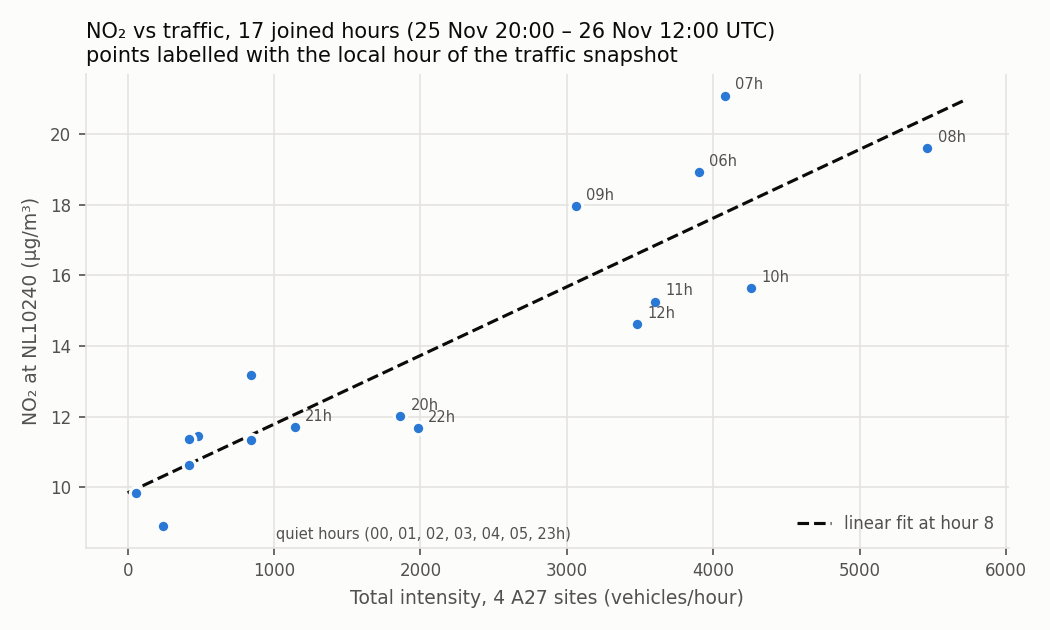
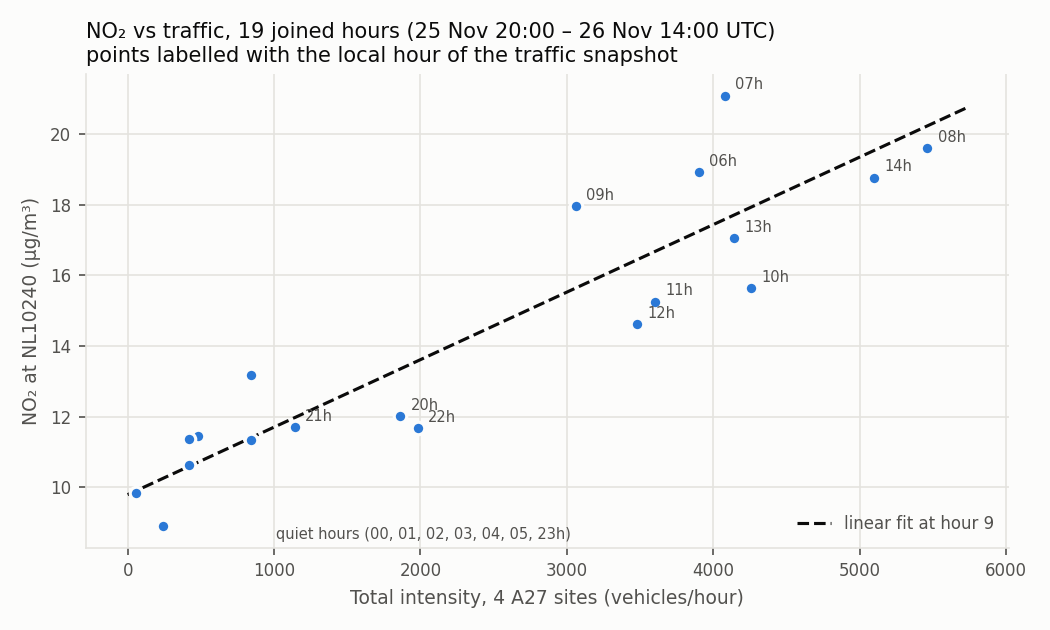
day 4 update final

diff --git a/services/dashboard/dashboard.py b/services/dashboard/dashboard.py
@@ -25,8 +25,9 @@ Where each field of GET /site/{site_id} comes from (required comment)
   timestamp                     the measurement time inside that CSV (when NDW measured
                                 the traffic), i.e. the moment the prediction is about.
   total_intensity_veh_per_hr    the same S3 step for all four sites, summed. Only set
-                                when all four files come from the same snapshot and
-                                have no invalid (-1) flow lane.
+                                when all four files come from the same hour (the
+                                newest complete hour is used) and have no invalid
+                                (-1) flow lane.
   prediction_for_hour           common.features.no2_hour_for(timestamp): the Luchtmeetnet
                                 hour the prediction will be compared with once published.
   no2_ug_m3_predicted,          predict.predict(total_intensity_veh_per_hr, hour_of_day):
@@ -119,27 +120,38 @@ def _s3_client():
 
 
 def _fetch_latest_traffic(now: datetime | None = None) -> dict[str, dict | None]:
-    """{site: {"intensity", "measurement_time", "key"} or None} from the newest CSV per site.
+    """{site: {"intensity", "measurement_time", "key"} or None}.
 
-    Keys are ndw/YYYY-MM-DD/HH-<site>.csv, so the newest is the lexicographic
-    maximum; today's and yesterday's folders are enough (the VM writes hourly).
+    Files are ndw/YYYY-MM-DD/HH-<site>.csv. We use the newest HOUR for which all
+    four sites have a file, not simply the newest file per site: traffic-ingest
+    uploads the four files one after another during a ~1-minute cycle, and in
+    that minute the newest files would mix two hours (and the total would be
+    meaningless). Only if no hour is complete does a site fall back to its own
+    newest file. Today's and yesterday's folders are enough (the VM writes hourly).
     """
     s3 = _s3_client()
     now = now or datetime.now(timezone.utc)
-    keys: dict[str, list[str]] = {}
+    by_hour: dict[str, dict[str, str]] = {}               # "ndw/2026-11-26/12" -> {site: key}
     for day in (now, now - timedelta(days=1)):
         resp = s3.list_objects_v2(Bucket=BUCKET, Prefix=f"ndw/{day:%Y-%m-%d}/")
         for obj in resp.get("Contents", []):
-            name = obj["Key"].rsplit("/", 1)[-1].removesuffix(".csv")   # "12-hrl"
-            site = name.split("-", 1)[-1]
+            folder, name = obj["Key"].rsplit("/", 1)
+            hour, _, site = name.removesuffix(".csv").partition("-")   # "12", "hrl"
             if site in SITES:
-                keys.setdefault(site, []).append(obj["Key"])
+                by_hour.setdefault(f"{folder}/{hour}", {})[site] = obj["Key"]
+    complete = [h for h, sites in by_hour.items() if len(sites) == len(SITES)]
+    if complete:
+        chosen = by_hour[max(complete)]
+    else:
+        chosen = {}
+        for hour in sorted(by_hour):                       # oldest -> newest: newest wins per site
+            chosen.update(by_hour[hour])
     result: dict[str, dict | None] = {}
     for site in SITES:
-        if not keys.get(site):
+        key = chosen.get(site)
+        if key is None:
             result[site] = None
             continue
-        key = max(keys[site])
         rows = parse_ndw_csv(s3.get_object(Bucket=BUCKET, Key=key)["Body"].read().decode("utf-8"))
         result[site] = {"intensity": site_intensity(rows), "measurement_time": measurement_time(rows), "key": key}
     return result
@@ -160,13 +172,15 @@ def total_intensity(traffic: dict[str, dict | None]) -> tuple[float | None, date
     if any(traffic.get(s) is None for s in SITES):
         return None, None, "total intensity unavailable: no recent file for " + \
             ", ".join(s for s in SITES if traffic.get(s) is None)
-    times = {traffic[s]["measurement_time"] for s in SITES}
-    if len(times) != 1:
-        return None, None, "total intensity unavailable: the four sites' latest files are from different snapshots"
+    # Same rule as the training join: the model's unit is the NO2 HOUR, so the four
+    # sites must fall in the same hour (the minute may differ if a cycle re-ran).
+    times = [traffic[s]["measurement_time"] for s in SITES]
+    if len({no2_hour_for(t) for t in times}) != 1:
+        return None, None, "total intensity unavailable: the four sites' latest files are from different hours"
     invalid = [s for s in SITES if traffic[s]["intensity"] is None]
     if invalid:
         return None, None, "total intensity unavailable: invalid (-1) flow lane at " + ", ".join(invalid)
-    return sum(traffic[s]["intensity"] for s in SITES), times.pop(), None
+    return sum(traffic[s]["intensity"] for s in SITES), max(times), None
 
 
 # --------------------------------------------------------------------------- #

diff --git a/tests/test_dashboard.py b/tests/test_dashboard.py
@@ -64,6 +64,48 @@ def test_invalid_lane_means_no_total_and_no_prediction(client, monkeypatch):
     assert body["intensity_veh_per_hr"] == 2460.0
 
 
+def test_same_hour_different_minutes_still_gives_a_total(client, monkeypatch):
+    # a re-run within the hour rewrote one site a few minutes later: still the same NO2 hour
+    later = {**TRAFFIC, "hrl": {**TRAFFIC["hrl"], "measurement_time": SNAP.replace(minute=24)}}
+    monkeypatch.setattr(dashboard, "latest_traffic", lambda: later)
+    body = client.get("/site/vwd").json()
+    assert body["total_intensity_veh_per_hr"] == 5460.0 and body["no2_ug_m3_predicted"] is not None
+
+
+def test_sites_from_different_hours_give_no_total(client, monkeypatch):
+    mixed = {**TRAFFIC, "hrl": {**TRAFFIC["hrl"], "measurement_time": SNAP.replace(hour=8)}}
+    monkeypatch.setattr(dashboard, "latest_traffic", lambda: mixed)
+    body = client.get("/site/vwd").json()
+    assert body["total_intensity_veh_per_hr"] is None and body["no2_ug_m3_predicted"] is None
+
+
+class FakeS3:
+    """Hour 07 is complete; traffic-ingest is halfway through writing hour 08."""
+
+    def __init__(self):
+        self.files = {}
+        for hour, sites, flow in [("07", ["hrl", "hrr", "vwd", "vwa"], 100), ("08", ["hrl", "hrr"], 999)]:
+            for s in sites:
+                self.files[f"ndw/2026-11-26/{hour}-{s}.csv"] = (
+                    "site_label,site_id,measurement_time,index,measurement_type,vehicle_class,raw_value,value,is_valid\n"
+                    f"{s},x,2026-11-26T{hour}:09:00Z,1,flow,anyVehicle,{flow},{flow}.0,True\n")
+
+    def list_objects_v2(self, Bucket, Prefix):
+        return {"Contents": [{"Key": k} for k in self.files if k.startswith(Prefix)]}
+
+    def get_object(self, Bucket, Key):
+        import io
+        return {"Body": io.BytesIO(self.files[Key].encode())}
+
+
+def test_fetch_uses_newest_complete_hour_while_an_upload_is_in_progress(monkeypatch):
+    monkeypatch.setattr(dashboard, "_s3_client", lambda: FakeS3())
+    traffic = dashboard._fetch_latest_traffic(now=datetime(2026, 11, 26, 8, 10, tzinfo=timezone.utc))
+    assert {v["key"].split("/")[-1][:2] for v in traffic.values()} == {"07"}   # not a 07/08 mix
+    total, _, reason = dashboard.total_intensity(traffic)
+    assert total == 400.0 and reason is None
+
+
 def test_both_stores_down_is_503(client, monkeypatch):
     def down():
         raise ConnectionError("down")

diff --git a/services/dashboard/predict.py b/services/dashboard/predict.py
@@ -3,7 +3,7 @@ AirBreda - Day 4: turn traffic into a predicted NO2 value and an exceedance risk
 
     from predict import predict
     predict(total_intensity_veh_per_hr=3600, hour_of_day=8)
-    # {"no2_ug_m3_predicted": 16.84, "no2_exceedance_risk": 0.164}   (model of 26 Nov, 17 rows)
+    # {"no2_ug_m3_predicted": ~17, "no2_exceedance_risk": ~0.16}   (exact values: see ml/metrics.json)
 
 The model (model.pkl, a scikit-learn LinearRegression trained by ml/train_model.py)
 is baked into the dashboard image next to this file, so the image always serves

diff --git a/infra/day3-aws-setup.md b/infra/day3-aws-setup.md
@@ -8,21 +8,22 @@ All laptop commands are **PowerShell**, run from the `airbreda` folder. Commands
 | Resource | Name / ID | Notes |
 |---|---|---|
 | Region | **eu-north-1** (Stockholm) | The only region the account's organization policy (SCP) allows for EC2/RDS |
-| EC2 instance | `airbreda-vm` · `i-0dd1b70fd3b8badb5` · **13.53.194.127** | t3.small, Amazon Linux 2023, 20 GB gp3, termination protection on, CPU credits *standard* |
+| EC2 instance | `airbreda-vm` · `i-0dd1b70fd3b8badb5` · **16.192.119.40** | t3.small, Amazon Linux 2023, 20 GB gp3, termination protection on, CPU credits *standard* |
+| Elastic IP | `airbreda-vm-eip` · `eipalloc-0d59a0f26157f73cf` · **16.192.119.40** | Attached 26 Nov (before that: 13.53.194.127, which changed on every stop/start). Same $0.005/h as any public IPv4 while attached, **but it keeps billing if the VM is stopped or the IP is detached**: release it when the project ends |
 | Key pair | `airbreda-day3` → `C:\Users\gabri\.ssh\airbreda-day3.pem` | ed25519; readable only by you. Never commit it (`*.pem` is git-ignored) |
-| Security group | `airbreda-vm-sg` · `sg-00f41cf700c384efa` | Inbound **TCP 22**, and from Day 4 **TCP 8000** (dashboard), from the owner's two IPs only: 86.80.42.249/32 and 145.101.245.100/32 |
+| Security group | `airbreda-vm-sg` · `sg-00f41cf700c384efa` | Inbound **TCP 22 from the owner's two IPs only** (86.80.42.249/32, 145.101.245.100/32). **TCP 8000** (dashboard): the same two IPs, plus **0.0.0.0/0 from 26 Nov until the Day 5 evaluation** (closing it: [day4-deploy.md §6](day4-deploy.md)) |
 | S3 bucket | `airbreda-raw-730631` | Public access blocked; `ndw/…` raw CSVs, `backups/postgres/…` nightly dumps |
 | IAM role | `airbreda-ec2-role` (+ instance profile `airbreda-ec2-profile`) | Inline policy [`aws/airbreda-s3-policy.json`](aws/airbreda-s3-policy.json): Put/Get on `ndw/*` and `backups/*` only |
 | Budget | `airbreda-monthly` | $11 (≈ €10)/month, email at 80% actual and 100% forecast |
 
-> The public IP changes if the instance is **stopped and started**. Check it with
-> `aws ec2 describe-instances --region eu-north-1 --instance-ids i-0dd1b70fd3b8badb5 --query "Reservations[0].Instances[0].PublicIpAddress" --output text`
+> Since 26 Nov the VM has an **Elastic IP**, so its address stays 16.192.119.40 across
+> stop/start. (Without one, AWS hands out a new public IP on every start.)
 
 ## Daily use
 
 ```powershell
 # Connect (Windows OpenSSH)
-ssh -i $env:USERPROFILE\.ssh\airbreda-day3.pem ec2-user@13.53.194.127
+ssh -i $env:USERPROFILE\.ssh\airbreda-day3.pem ec2-user@16.192.119.40
 ```
 
 ```bash
@@ -51,8 +52,8 @@ aws ec2 authorize-security-group-ingress --region eu-north-1 --group-id sg-00f41
 ```powershell
 # On the laptop: package what the VM needs (no docker-compose.yml, no Redis)
 tar czf $env:TEMP\airbreda-vm.tgz --exclude=__pycache__ services sql infra/vm .gitattributes
-scp -i $env:USERPROFILE\.ssh\airbreda-day3.pem $env:TEMP\airbreda-vm.tgz ec2-user@13.53.194.127:~/
-ssh -i $env:USERPROFILE\.ssh\airbreda-day3.pem ec2-user@13.53.194.127 "tar xzf ~/airbreda-vm.tgz -C ~/airbreda && ~/airbreda/infra/vm/deploy.sh"
+scp -i $env:USERPROFILE\.ssh\airbreda-day3.pem $env:TEMP\airbreda-vm.tgz ec2-user@16.192.119.40:~/
+ssh -i $env:USERPROFILE\.ssh\airbreda-day3.pem ec2-user@16.192.119.40 "tar xzf ~/airbreda-vm.tgz -C ~/airbreda && ~/airbreda/infra/vm/deploy.sh"
 ```
 
 [`vm/deploy.sh`](vm/deploy.sh) rebuilds both images, keeps the `db` container and its
@@ -194,6 +195,14 @@ Expected ≈ $0.70/day (≈ $21/month) while the VM runs, all paid from the Free
 ## Stop / clean up
 
 ```powershell
-aws ec2 stop-instances  --region eu-north-1 --instance-ids i-0dd1b70fd3b8badb5   # data kept; new public IP on start
+aws ec2 stop-instances  --region eu-north-1 --instance-ids i-0dd1b70fd3b8badb5   # data kept; Elastic IP stays
 aws ec2 start-instances --region eu-north-1 --instance-ids i-0dd1b70fd3b8badb5
+```
+
+After the course, release the Elastic IP. It bills even while the VM is stopped, and
+releasing it gives the address back to AWS for good:
+
+```powershell
+aws ec2 disassociate-address --region eu-north-1 --association-id eipassoc-04aace55eda25b2b8
+aws ec2 release-address      --region eu-north-1 --allocation-id  eipalloc-0d59a0f26157f73cf
 ```

diff --git a/docs/adr/0005-compute-and-deployment-strategy.md b/docs/adr/0005-compute-and-deployment-strategy.md
@@ -52,7 +52,13 @@ We chose this over a systemd unit per container: a systemd unit would add orderi
 Resource limits keep one container from starving the others: `db` 384 MB, `air-ingest` 256 MB, `traffic-ingest` 1 GB, `dashboard` 384 MB.
 
 ### Exposure and least privilege
-- **Network:** the dashboard is the only container with a port on the VM's public interface (`0.0.0.0:8000`). The security group allows 8000 only from the developer's two IPs. For the Day 5 evaluation the grader's IP (or `0.0.0.0/0` for the day) will have to be added. The data is public open data, but the endpoint has no authentication and no HTTPS, so it shouldn't stay open to the world by default.
+- **Network:** the dashboard is the only container with a port on the VM's public interface (`0.0.0.0:8000`). On Day 4 the security group allowed 8000 only from the developer's two IPs. **For the Day 5 evaluation it is open to `0.0.0.0/0`** (from 26 Nov), because the grader's IP isn't known in advance. Why that is acceptable *temporarily*:
+  - the data is public open data;
+  - the container can only read the database;
+  - SSH stays restricted;
+  - the dashboard has a fixed Elastic IP (16.192.119.40).
+
+  Why it shouldn't stay that way: the endpoint has no authentication, no HTTPS and no rate limiting, so anyone scanning the internet can load the small VM. The public rule is a separate entry next to the developer's two IPs, so closing it again after the evaluation is a single `revoke-security-group-ingress` (`infra/day4-deploy.md` §6).
 - **Database:** the dashboard logs in as **`dashboard_ro`**, which may only `SELECT` from `sensor_readings` (`sql/dashboard_role.sql`). It is *not* given the owner's `DATABASE_URL`/`POSTGRES_PASSWORD`: `deploy.sh` passes it four named variables instead of `--env-file .env`. Tested: `DELETE` and `CREATE TABLE` return `permission denied`.
 - **S3 / IAM:** the lab's Day 4 step ("replace `AmazonS3FullAccess` with `PutObject`/`GetObject` on just your bucket") was done on Day 3, and narrower: the role may only `Put`/`Get` under `ndw/*` and `backups/*`, and `ListBucket` only for those prefixes. The dashboard needed no change: it uses `ListBucket` (prefix `ndw/YYYY-MM-DD/`) and `GetObject` on `ndw/*`. The ingesters still wrote successfully after deploying, and nothing failed with `AccessDenied`. **Remaining gap:** on plain EC2, every container shares the instance role, so the dashboard *could* write to `ndw/`. Per-container roles need ECS task roles. That is one more argument for ECS once we leave the single VM.
 

diff --git a/docs/adr/0006-ml-serving-architecture.md b/docs/adr/0006-ml-serving-architecture.md
@@ -99,6 +99,26 @@ It **degrades instead of failing**: HTTP 200 with the real `no2_ug_m3` and `inte
 - **Why `null` and not a fallback number** (the last prediction, or the measured value): a fabricated prediction looks real. `null` is unambiguous, and the dashboard shows "no prediction available".
 - **Same rule for the stores:** if Postgres is down, NO₂ is `null`; if S3 is down, intensity and prediction are `null`. Only when *neither* real value is available does the route return 503, because then nothing true is left to show.
 
+## Model history
+
+The analysis above is for the model as first trained on Day 4. Retraining is one command (`infra/retrain.ps1`):
+1. build the data on the VM;
+2. train in the pinned environment;
+3. run the full test suite, and stop if it fails;
+4. deploy;
+5. smoke-test the public `/site/hrl`.
+
+`ml/metrics.json` always describes the model that is currently deployed.
+
+| Trained | Rows | Traffic coef. (per 1,000 veh/h) | In-sample R² | LOO MAE (mean baseline) | Logistic trainable? |
+|---|---|---|---|---|---|
+| 26 Nov, Day 4 | 17 | +1.94 | 0.83 | 1.44 (3.28) | no, 0 exceedances |
+| 26 Nov, retrain test | 19 | +1.91 | 0.85 | 1.29 (3.39) | no, 0 exceedances |
+
+The traffic coefficient barely moves as rows are added. That is encouraging, but it is still the same single day. Retrain on the morning of Day 5 to roughly double the data.
+
+**A bug the retrain smoke test found:** `traffic-ingest` uploads the four site files one after another over about a minute. During that minute, the dashboard's "newest file per site" mixed two hours, so it refused to compute a total and showed no prediction. This happened after every deploy and for about a minute after every hourly cycle. The fix follows the training join: the dashboard now uses the **newest hour for which all four sites have a file**, and requires the four sites to share an NO₂ *hour* rather than an identical minute. A regression test covers the mid-upload state.
+
 ## Consequences
 
 **Easier:** the whole model fits in a sentence ("about 10.5 µg/m³ at night, plus 1.9 per 1,000 vehicles per hour"), so anyone can sanity-check it. Retraining is two commands (see `infra/day4-deploy.md`), and every model can be traced to its data.

diff --git a/infra/day4-deploy.md b/infra/day4-deploy.md
@@ -5,7 +5,7 @@ VM details and SSH: [day3-aws-setup.md](day3-aws-setup.md). Why: [ADR-0005](../d
 [ADR-0006](../docs/adr/0006-ml-serving-architecture.md).
 
 ```powershell
-$Key = "$env:USERPROFILE\.ssh\airbreda-day3.pem"; $Vm = "ec2-user@13.53.194.127"
+$Key = "$env:USERPROFILE\.ssh\airbreda-day3.pem"; $Vm = "ec2-user@16.192.119.40"
 ```
 
 ## 1. Build the training data (on the VM, where the database is)
@@ -66,15 +66,22 @@ ssh -i $Key $Vm "tar xzf ~/airbreda-vm.tgz -C ~/airbreda && cd ~/airbreda && inf
 
 The dashboard gets only `DASHBOARD_DATABASE_URL`, `S3_BUCKET` and the region, never the owner password.
 
-Open **http://13.53.194.127:8000** from an allowed IP.
+Open **http://16.192.119.40:8000** (Elastic IP, fixed since 26 Nov).
 
 ## 6. Who may reach port 8000
 
+Since 26 Nov port 8000 is open to **everyone** (`0.0.0.0/0`) so the grader can reach it on
+Day 5. The rules for the owner's two IPs stay in place, so closing it again is one command:
+
 ```powershell
 aws ec2 describe-security-groups --region eu-north-1 --group-ids sg-00f41cf700c384efa --query "SecurityGroups[0].IpPermissions[].[FromPort,IpRanges[].CidrIp]" --output text
-# allow one more IP (e.g. the grader's on Day 5):
+# after the evaluation: close it to the public again (your own IPs keep access)
+aws ec2 revoke-security-group-ingress --region eu-north-1 --group-id sg-00f41cf700c384efa --protocol tcp --port 8000 --cidr 0.0.0.0/0
+# or allow just one more IP
 aws ec2 authorize-security-group-ingress --region eu-north-1 --group-id sg-00f41cf700c384efa --protocol tcp --port 8000 --cidr <ip>/32
 ```
+
+SSH (22) is **not** opened to the public: only your two IPs.
 
 ## 7. Checks
 

diff --git a/docs/adr/0004-compute-strategy.md b/docs/adr/0004-compute-strategy.md
@@ -101,5 +101,5 @@ In both cases it returns as **Amazon SQS** (with SNS for fan-out), not Redis. Co
 - OS and Docker patching is manual (`sudo dnf update`). Revisit with automatic security updates or SSM Patch Manager. SSM needs an instance-management role this account doesn't have yet (seen in the boot log).
 - SSH from a single home IP: if that IP changes, the security group rule has to be updated (`infra/day3-aws-setup.md`). EC2 Instance Connect or SSM Session Manager would remove the open port entirely.
 - The Day 4 API will need one more inbound rule (its port, ideally behind HTTPS). That is the first part of the system exposed to the public internet.
-- **The public IP is not fixed.** Stopping and starting the VM releases its auto-assigned IPv4 address and gives it a new one, and the Day 5 deliverable is "reachable at its public IP". Before Day 5, attach an Elastic IP (same $0.005/h while in use).
+- **The public IP is not fixed.** Stopping and starting the VM releases its auto-assigned IPv4 address and gives it a new one, and the Day 5 deliverable is "reachable at its public IP". Before Day 5, attach an Elastic IP (same $0.005/h while in use). **Done 26 Nov:** Elastic IP 16.192.119.40. Caveat: unlike the auto-assigned address, it keeps billing while the VM is stopped, so it must be released when the project ends.
 - After the course: **stop** the VM (the disk and the data survive; ≈ $1.67/month for the disk only), or snapshot it and terminate (termination protection has to be switched off first).

diff --git a/docs/index.md b/docs/index.md
@@ -27,7 +27,9 @@ What actually runs today: one EC2 `t3.small` in **eu-north-1** (the only region 
 A third application container, `dashboard` (FastAPI), joins the ingesters on the same VM. It serves `GET /` (HTML), `GET /site/{id}` and an aggregated `GET /health` on port 8000, which is open to the owner's IPs only. Each request reads:
 - the latest NO₂ from Postgres, through a SELECT-only login;
 - the latest traffic per site from S3, through the narrowed IAM role;
-- a prediction from `model.pkl`, a linear regression trained offline on 17 joined hours and baked into the image.
+- a prediction from `model.pkl`, a linear regression trained offline on the joined hours collected so far (17 on Day 4; retrained with `infra/retrain.ps1`) and baked into the image.
+
+The dashboard is publicly reachable at **http://16.192.119.40:8000** (Elastic IP) for the Day 5 evaluation.
 
 The HTML page is a client of `/site/{id}`. If the model fails, the API still returns the measured values (ADR-0006).
 

diff --git a/README.md b/README.md
@@ -4,7 +4,7 @@ Cloud platform that ingests live NO₂ readings (RIVM Luchtmeetnet, station NL10
 
 Built for the System Design & Cloud Platforms elective (ADSAI, BUas). Cloud provider: **AWS** (region eu-north-1, Stockholm: the only region the account's organization policy allows; see ADR-0004).
 
-Since Day 3 the stack runs on an EC2 VM: see [infra/day3-aws-setup.md](infra/day3-aws-setup.md). Since Day 4 the dashboard runs there too, at `http://13.53.194.127:8000` (open to allowed IPs only): see [infra/day4-deploy.md](infra/day4-deploy.md).
+Since Day 3 the stack runs on an EC2 VM: see [infra/day3-aws-setup.md](infra/day3-aws-setup.md). Since Day 4 the dashboard runs there too, at **http://16.192.119.40:8000** (Elastic IP; public until the Day 5 evaluation): see [infra/day4-deploy.md](infra/day4-deploy.md).
 
 ## Repository layout
 

diff --git a/notebook/day3.md b/notebook/day3.md
@@ -19,7 +19,7 @@
 
 | Lab item | Status |
 |---|---|
-| VM running in the cloud | ✅ `i-0dd1b70fd3b8badb5`, t3.small, eu-north-1c, 13.53.194.127 |
+| VM running in the cloud | ✅ `i-0dd1b70fd3b8badb5`, t3.small, eu-north-1c, 16.192.119.40 |
 | Both ingestion containers run on the VM | ✅ `air-ingest`, `traffic-ingest` (+ `db`), restart `unless-stopped`; came back by themselves after a reboot |
 | `sensor_readings` has real rows from today | ✅ 125 rows after the first cycle (incl. the laptop's Day 1–2 history), growing hourly |
 | ≥ 1 NDW CSV in the bucket | ✅ `s3://airbreda-raw-730631/ndw/2026-11-25/19-{hrl,hrr,vwd,vwa}.csv`, then 4 more per hour |

diff --git a/notebook/day4.md b/notebook/day4.md
@@ -45,7 +45,7 @@ My reflection on the coefficients ✍:
 ## Lab 2 — dashboard
 
 - Local Compose test: `http://localhost:8000` showed real numbers on the first run (NO₂ 17.0 measured, 18.8 predicted, 4,920 veh/h).
-- VM: **http://13.53.194.127:8000** (port 8000 open to the owner's two IPs only).
+- VM: **http://16.192.119.40:8000** (Elastic IP; port 8000 public until the Day 5 evaluation, SSH owner-only).
 - Refresh every 60 s; "last updated" times plus a warning banner if traffic is > 90 min or NO₂ > 3 h old.
 - Read-only DB login for the dashboard; IAM was already scoped on Day 3 and needed no change (ADR-0005).
 
